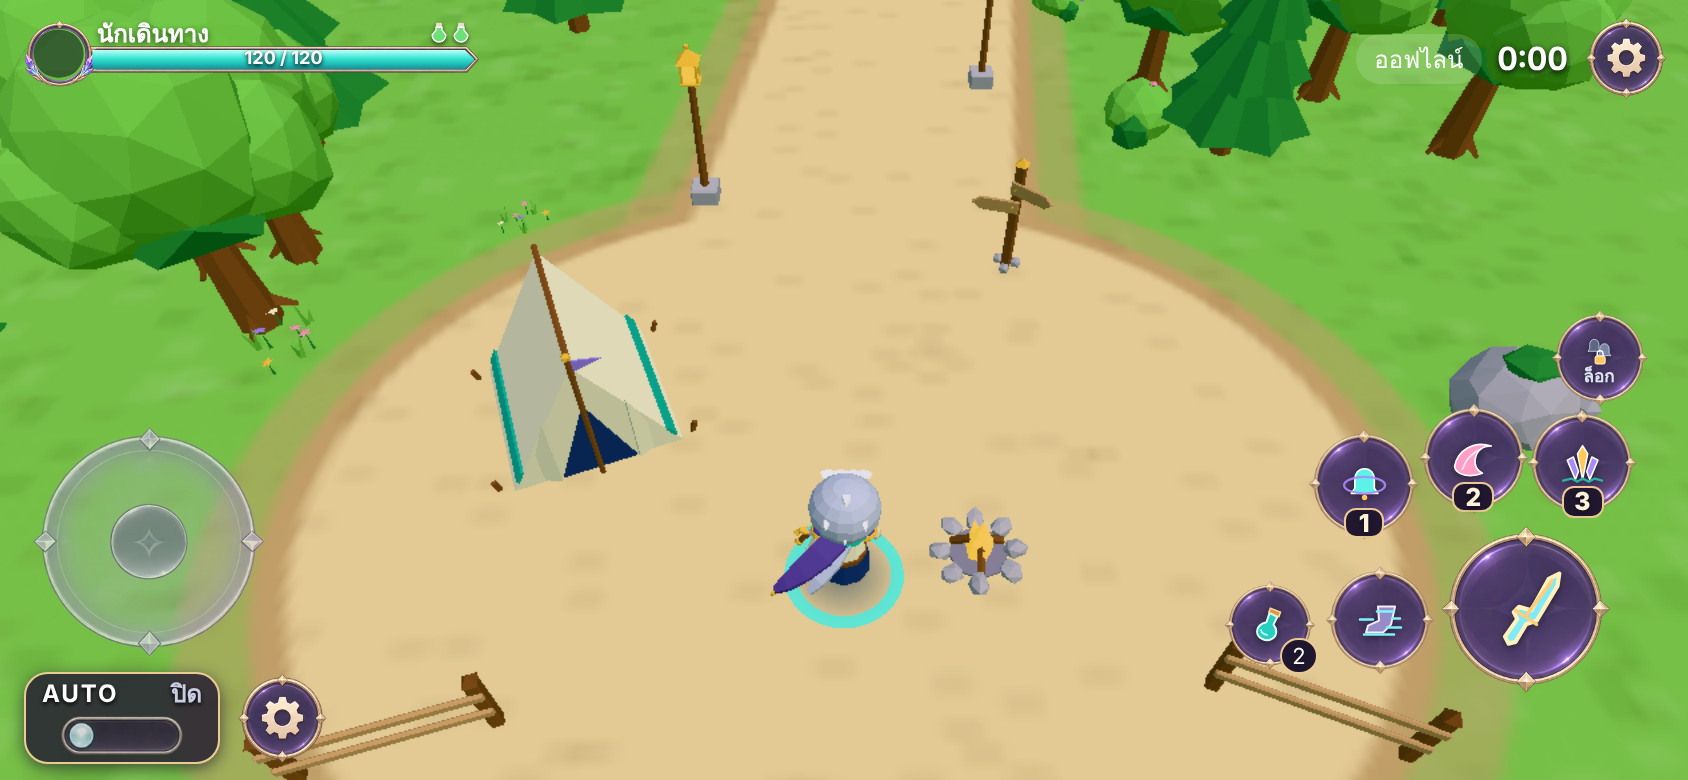
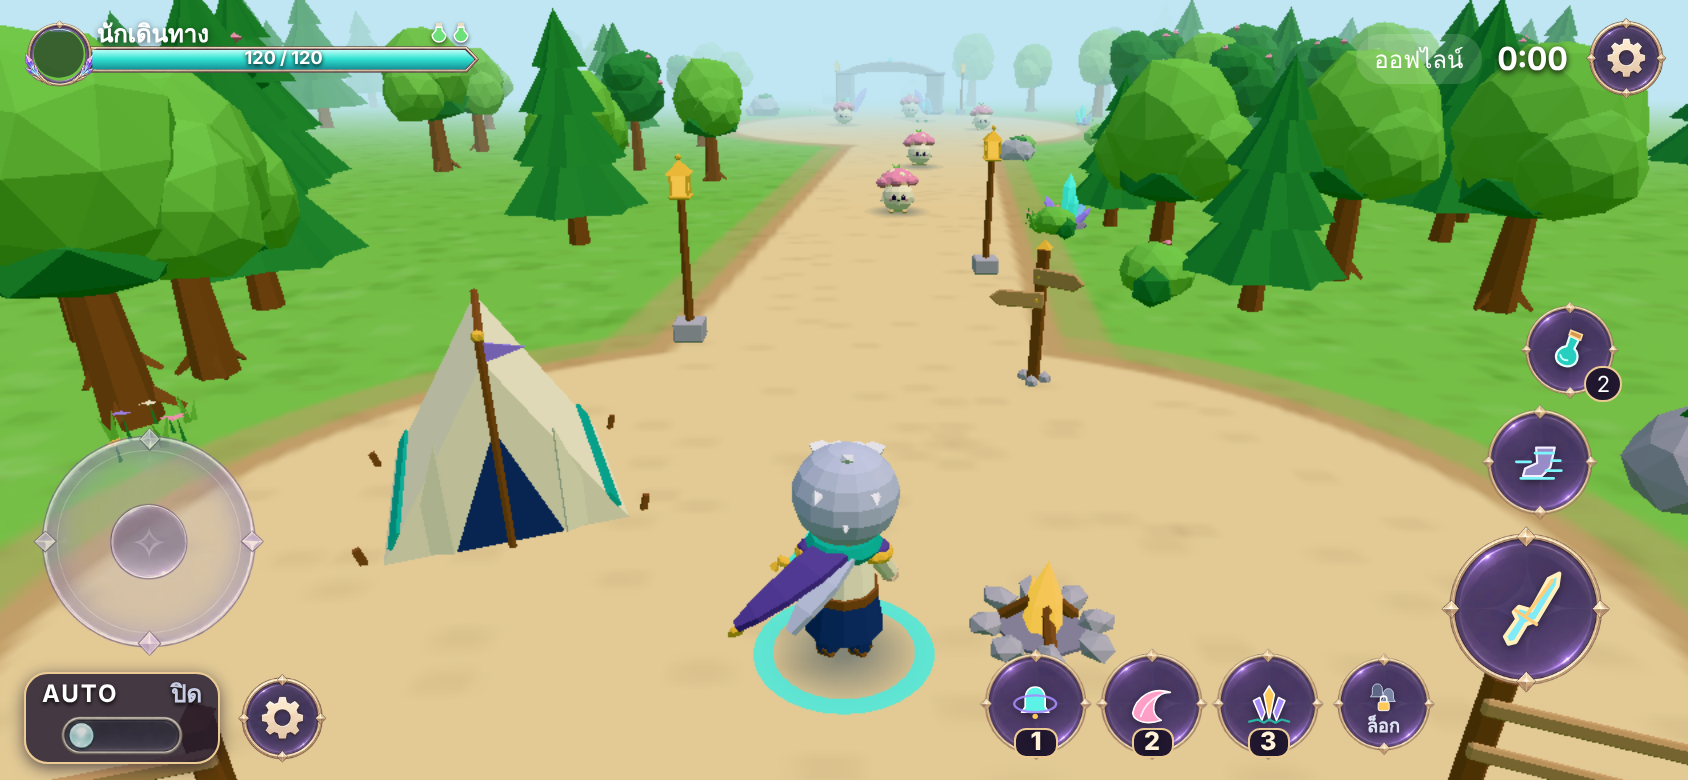
handoff: low camera + Auto + bottom skill row merged; REQ-003 open; TERRAVIA access pending
Claude-Session: https://claude.ai/code/session_01A1roa5G9Rcb3SnhDo5NGaP

diff --git a/docs/HANDOFF.md b/docs/HANDOFF.md
@@ -1,5 +1,16 @@
 # Handoff: Synes Online
 
+## กล้องต่ำ + Auto + แถวสกิล · 2026-11-21 · 🟡 MAIN · Synes Online · รอบ 2-B (ต่อ)
+**คำสั่งเจ้าของ:** "ตีไวเกินไปและอยากให้มุมกล้องแบบนี้ตลอด และเพิ่มระบบโจมตีอัตโนมัติ" (ภาพ DES-003 + ภาพ Auto เกมอื่นภาพเดิมของ REQ-001) · "ปรับจุดวางสกิลตามนี้" (ภาพแนวคิด TERRAVIA ข้อ 3) · "ให้เอเจ้นตรวจดูระบบของ Terravia"
+**ทำแล้ว (merge เข้า `main`):**
+- กล้องต่ำตลอดในแนวนอน (`lane/camera` → `e4e59e1`) + ตัดวัตถุที่ลึกเกินหมอก (ภาพไม่เปลี่ยน) · `docs/qa/camera-low-v01/`
+- Auto ตาม DES-001 §4 (`lane/auto`, sonnet subagent → `6edb182`): `shared/sim/auto.ts`, input log v2 (`[0,0,2,0]` header + คำสั่ง `[0,1,a,b]`, log ที่ไม่ใช้ Auto ยังเป็น v1), server ตรวจ v2, HUD AUTO + เฟือง มุมซ้ายล่าง, แผงตั้งค่า (หยุดเกมตอนเปิด), ฟาร์มออฟไลน์ "ยังไม่เปิด" · Q50–Q68 ใน `DES-001-teamB.md` · `docs/qa/auto-v01/`
+- แถวสกิลล่าง (`lane/skill-row` → `c0af790`): สกิล 1–3 + อัลติเรียงแถวล่าง, หลบ/ยาแนวตั้งเหนือปุ่มโจมตี, ทุกปุ่ม ≥ 44 px · Q69–Q73 ใน `docs/qa/skill-row-v01/README.md`
+**ยังไม่ทำ:** ตีไวเกินไป → `REQ-003` ส่งทีม A (ตัวเลขสมดุล) · TERRAVIA: ไม่อยู่บน GitHub ที่เข้าถึงได้, `list_computer_folders` ว่าง → รอเจ้าของแชร์โฟลเดอร์ผ่าน Remote Control หรือเลือกวิธีอื่น
+**ผลทดสอบหลัง merge ทั้งหมด:** test 115/115 · typecheck ผ่าน · build ผ่าน · lifecycle 20/20 (Chromium headless) · draw calls ในทุ่งที่ 844: 48–75 → ~150 (กล้องเห็นไกล)
+**Pages:** ยังเป็น `260d107` (ยังไม่มีกล้อง/Auto/แถวสกิล) รอเจ้าของสั่งอัปเดต
+**ขั้นถัดไปควรใช้โมเดล:** ตรวจผลทีม A + ตรวจ TERRAVIA **Opus** · ลด draw calls (instancing ฉากนิ่ง) และแก้ตามผลตรวจ **Sonnet**
+
 ## PM ตรวจรับ `lane/prismatic-graphics` (`dd04146`) · 2026-11-21 · 🟡 MAIN · Synes Online · รอบ 2-B (ต่อ)
 **อัปเดต:** เจ้าของ "อนุมัติแบบใหม่" (โมเดล 3 ชิ้น) และขอลิงก์เล่น → **merge เข้า `main` แล้ว** (`4fdc1b3`, test 62/62, typecheck, build, lifecycle 20/20) · ขึ้น GitHub Pages แล้ว (`gh-pages` `260d107`, ตรวจที่ sub-path ในเครื่อง: เล่นได้ออฟไลน์ ไม่มี 4xx นอกจาก `/api/health` ที่คาดไว้) · คำถามถึงทีม A ด้านล่างยังเปิดอยู่ ถ้าทีม A ไม่รับส่วนใด ให้แก้ทีหลังด้วย commit ใหม่ (ไม่ revert ทั้งก้อน)
 **ผลก่อนอนุมัติ:** ยัง**ไม่ merge** เข้า `main` เพราะ handoff ของสายเองระบุว่าต้องรอทีม A กับเจ้าของตรวจภาพก่อน, GLB ใหม่ยังไม่ได้รับอนุมัติ (CLAUDE.md ข้อ 6) และข้อยกเว้น ADR-007 ยังไม่ได้บันทึกเป็น ADR
